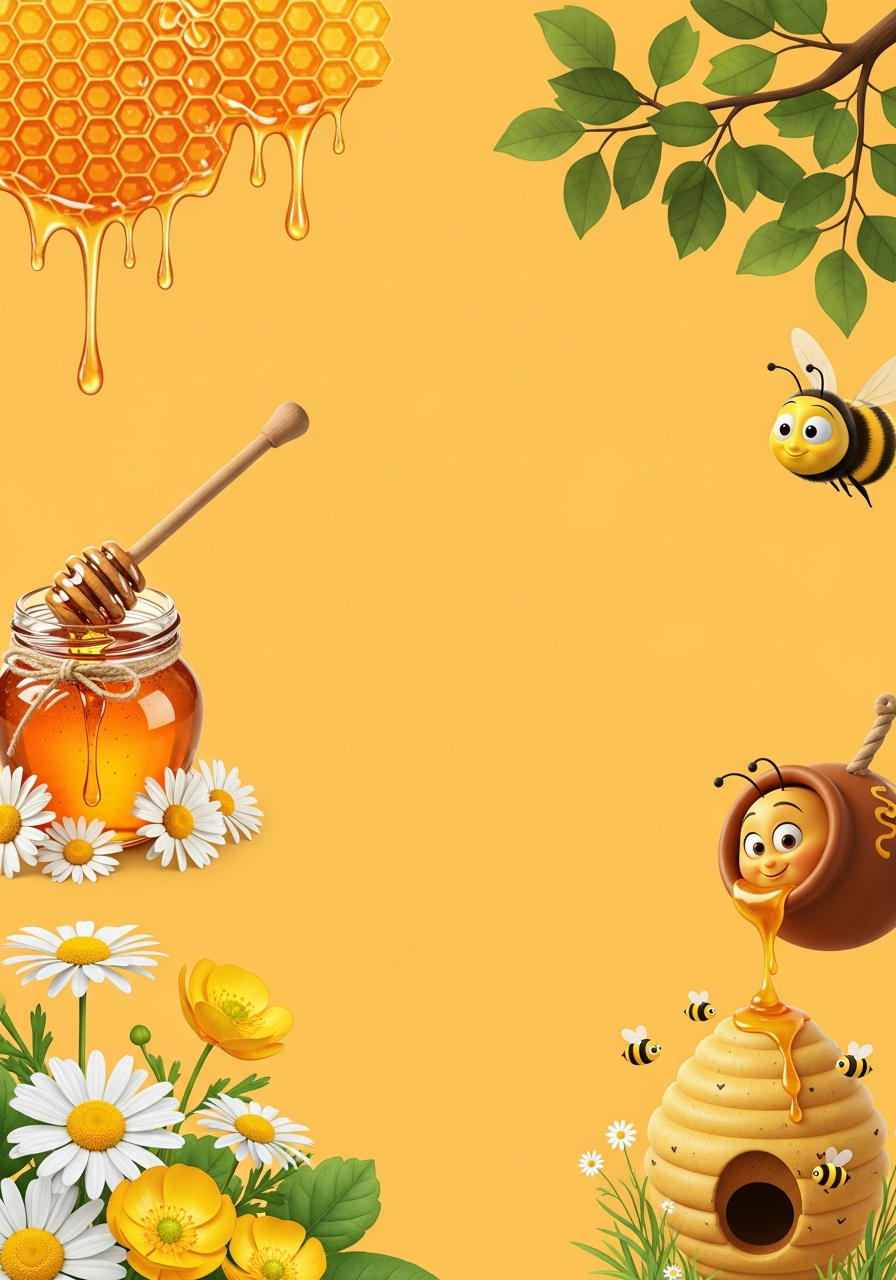
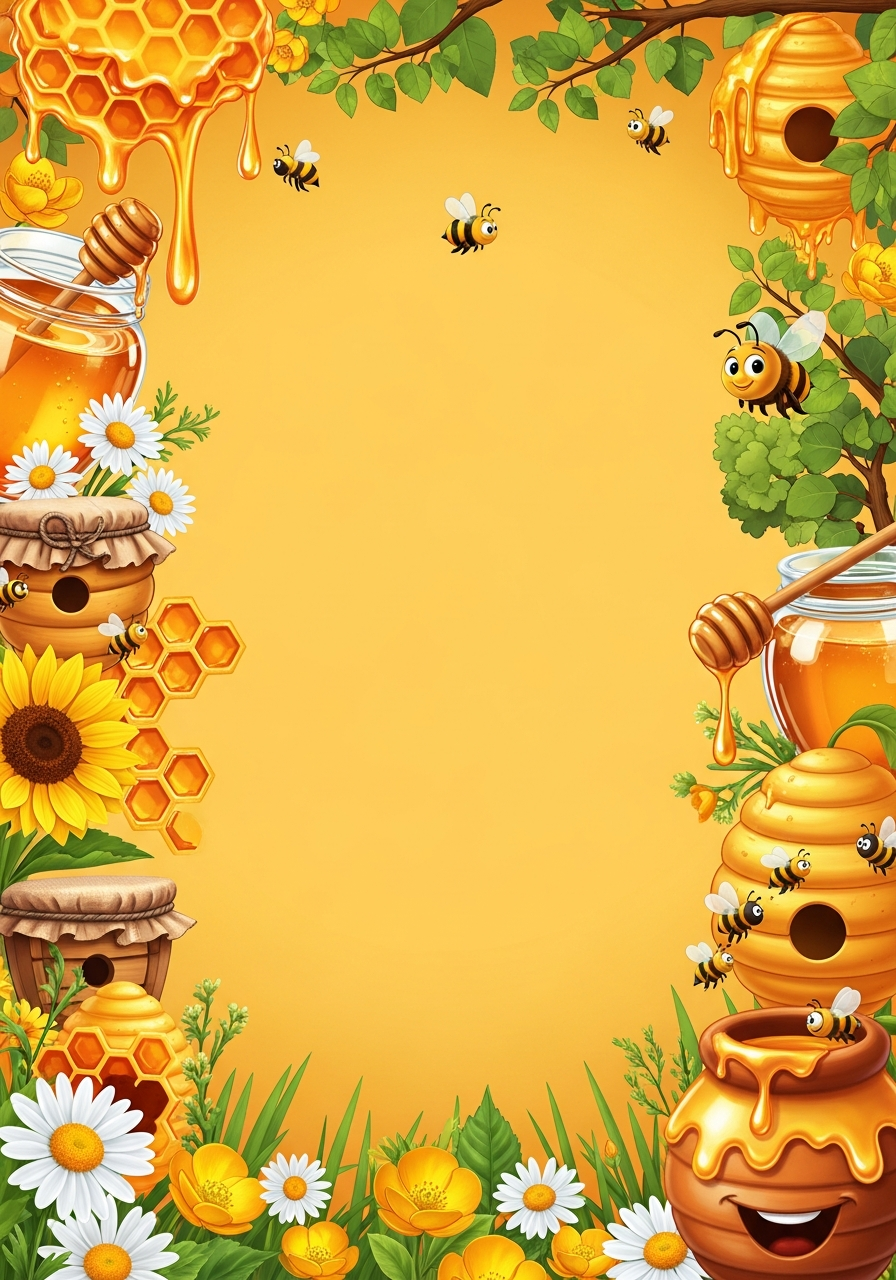
Mapa v4: scroll do Vrata (zaključane lekcije sive/blijede ali vidljive), brži reveal (currentRow+4 → kad završi 20 odmah otkriveno 36-40), bogatija pozadina sa dekoracijama na obje strane

diff --git a/artifacts/mekteb-arapsko-pismo/src/pages/nivo1-mapa.tsx b/artifacts/mekteb-arapsko-pismo/src/pages/nivo1-mapa.tsx
@@ -79,11 +79,17 @@ export default function Nivo1MapaPage() {
   }, [lekcijeSorted, zavrseneSet, allDone]);
 
   const currentLogicalRow = Math.floor(currentCellIndex / COLS);
-  // Otkrivenih redova: bar 7, ili currentRow+3 (2 reda iznad za "namamiti" na nastavak).
+  // Otkrivenih redova: bar 7, ili currentRow+4 (3 reda iznad pčele otkrivena).
+  // Tako kad učenik završi lekciju 20 (red 4 → currentRow postaje 5 jer ide na
+  // lekciju 21), revealedRows postaje 9 → otkriveni redovi 0-8 → lekcije 1-45.
   const revealedRows = Math.max(
     INITIAL_VISIBLE_ROWS,
-    Math.min(TOTAL_ROWS, currentLogicalRow + 3),
+    Math.min(TOTAL_ROWS, currentLogicalRow + 4),
   );
+  // Granica do koje su lekcije OTKLJUČANE i klikabilne. Sve preko ovoga
+  // se prikazuje kao zaključano (sivi blijedi krug), ali se može vidjeti
+  // skrolovanjem prema gore.
+  const unlockedCellCount = revealedRows * COLS;
 
   // Snake mapping: logički indeks → (logicalRow, col).
   function rowColFor(i: number): { logicalRow: number; col: number } {
@@ -93,8 +99,9 @@ export default function Nivo1MapaPage() {
     return { logicalRow, col };
   }
   // Bottom-up render: logički red 0 (lekcija 1) ide na DNO grida.
+  // Sad uvijek renderujemo svih TOTAL_ROWS (13) da učenik može scrolati do Vrata.
   function displayRowFor(logicalRow: number): number {
-    return revealedRows - 1 - logicalRow;
+    return TOTAL_ROWS - 1 - logicalRow;
   }
 
   // Auto-scroll do trenutne lekcije (kad se data učita)
@@ -183,7 +190,6 @@ export default function Nivo1MapaPage() {
       >
         <div className="relative flex-1 flex flex-col">
           <PathSvg
-            revealedRows={revealedRows}
             rowColFor={rowColFor}
             displayRowFor={displayRowFor}
           />
@@ -191,16 +197,16 @@ export default function Nivo1MapaPage() {
             className="relative grid items-center flex-1"
             style={{
               gridTemplateColumns: `repeat(${COLS}, 1fr)`,
-              gridTemplateRows: `repeat(${revealedRows}, minmax(64px, 1fr))`,
-              minHeight: `${revealedRows * 78}px`,
+              gridTemplateRows: `repeat(${TOTAL_ROWS}, minmax(64px, 1fr))`,
+              minHeight: `${TOTAL_ROWS * 78}px`,
             }}
           >
             {Array.from({ length: TOTAL_CELLS }).map((_, i) => {
               const { logicalRow, col } = rowColFor(i);
-              if (logicalRow >= revealedRows) return null;
               const displayRow = displayRowFor(logicalRow);
               const isCurrent = i === currentCellIndex;
               const isLast = i === TOTAL_CELLS - 1;
+              const isLocked = i >= unlockedCellCount;
 
               if (isLast) {
                 return (
@@ -260,23 +266,26 @@ export default function Nivo1MapaPage() {
                 <button
                   key={`l-${lekcija.id}`}
                   data-cell-index={i}
-                  onClick={() => setLocation(`/ilmihal/${lekcija.slug}`)}
-                  className="relative flex items-center justify-center"
+                  onClick={() => !isLocked && setLocation(`/ilmihal/${lekcija.slug}`)}
+                  disabled={isLocked && !isDone}
+                  className="relative flex items-center justify-center disabled:cursor-not-allowed"
                   style={{ gridRow: displayRow + 1, gridColumn: col + 1 }}
                   data-testid={`mapa-polje-lekcija-${lekcija.id}`}
-                  title={lekcija.naslov}
+                  title={isLocked ? `Zaključano — završi prethodne lekcije` : lekcija.naslov}
                 >
                   <div className="relative">
                     {isCurrent && (
                       <span className="absolute inset-0 rounded-full bg-amber-300 animate-ping opacity-70" />
                     )}
                     <div
-                      className={`relative w-12 h-12 sm:w-16 sm:h-16 rounded-full flex items-center justify-center font-extrabold text-base sm:text-xl shadow-md transition-transform active:scale-95 hover:scale-110 ${
+                      className={`relative w-12 h-12 sm:w-16 sm:h-16 rounded-full flex items-center justify-center font-extrabold text-base sm:text-xl shadow-md transition-transform ${
                         isDone
-                          ? "bg-gradient-to-br from-amber-300 to-amber-500 text-amber-900 ring-2 ring-amber-700/40"
+                          ? "bg-gradient-to-br from-amber-300 to-amber-500 text-amber-900 ring-2 ring-amber-700/40 active:scale-95 hover:scale-110"
                           : isCurrent
-                            ? "bg-gradient-to-br from-yellow-200 to-amber-400 text-amber-900 ring-4 ring-white"
-                            : "bg-gradient-to-br from-yellow-300 to-amber-400 text-amber-900 ring-2 ring-amber-700/30"
+                            ? "bg-gradient-to-br from-yellow-200 to-amber-400 text-amber-900 ring-4 ring-white active:scale-95 hover:scale-110"
+                            : isLocked
+                              ? "bg-gradient-to-br from-gray-300 to-gray-400 text-gray-600 ring-2 ring-gray-500/40 opacity-70"
+                              : "bg-gradient-to-br from-yellow-300 to-amber-400 text-amber-900 ring-2 ring-amber-700/30 active:scale-95 hover:scale-110"
                       }`}
                     >
                       {isDone ? (
@@ -294,7 +303,6 @@ export default function Nivo1MapaPage() {
           {currentCellIndex >= 0 && currentCellIndex < TOTAL_CELLS && (
             <BeeOnGrid
               currentIndex={currentCellIndex}
-              revealedRows={revealedRows}
               rowColFor={rowColFor}
               displayRowFor={displayRowFor}
             />
@@ -398,21 +406,18 @@ function MedaljonHex({
 
 // ─── Snake path (bottom-up) ──────────────────────────────────────────────
 function PathSvg({
-  revealedRows,
   rowColFor,
   displayRowFor,
 }: {
-  revealedRows: number;
   rowColFor: (i: number) => { logicalRow: number; col: number };
   displayRowFor: (lr: number) => number;
 }) {
   const points: string[] = [];
   for (let i = 0; i < TOTAL_CELLS; i++) {
     const { logicalRow, col } = rowColFor(i);
-    if (logicalRow >= revealedRows) break;
     const displayRow = displayRowFor(logicalRow);
     const xPct = ((col + 0.5) / COLS) * 100;
-    const yPct = ((displayRow + 0.5) / Math.max(revealedRows, 1)) * 100;
+    const yPct = ((displayRow + 0.5) / TOTAL_ROWS) * 100;
     points.push(`${xPct},${yPct}`);
   }
   return (
@@ -438,20 +443,17 @@ function PathSvg({
 // ─── Pčela ───────────────────────────────────────────────────────────────
 function BeeOnGrid({
   currentIndex,
-  revealedRows,
   rowColFor,
   displayRowFor,
 }: {
   currentIndex: number;
-  revealedRows: number;
   rowColFor: (i: number) => { logicalRow: number; col: number };
   displayRowFor: (lr: number) => number;
 }) {
   const { logicalRow, col } = rowColFor(currentIndex);
-  if (logicalRow >= revealedRows) return null;
   const displayRow = displayRowFor(logicalRow);
   const xPct = ((col + 0.5) / COLS) * 100;
-  const yPct = ((displayRow + 0.5) / Math.max(revealedRows, 1)) * 100;
+  const yPct = ((displayRow + 0.5) / TOTAL_ROWS) * 100;
   return (
     <motion.div
       className="absolute pointer-events-none z-20"
